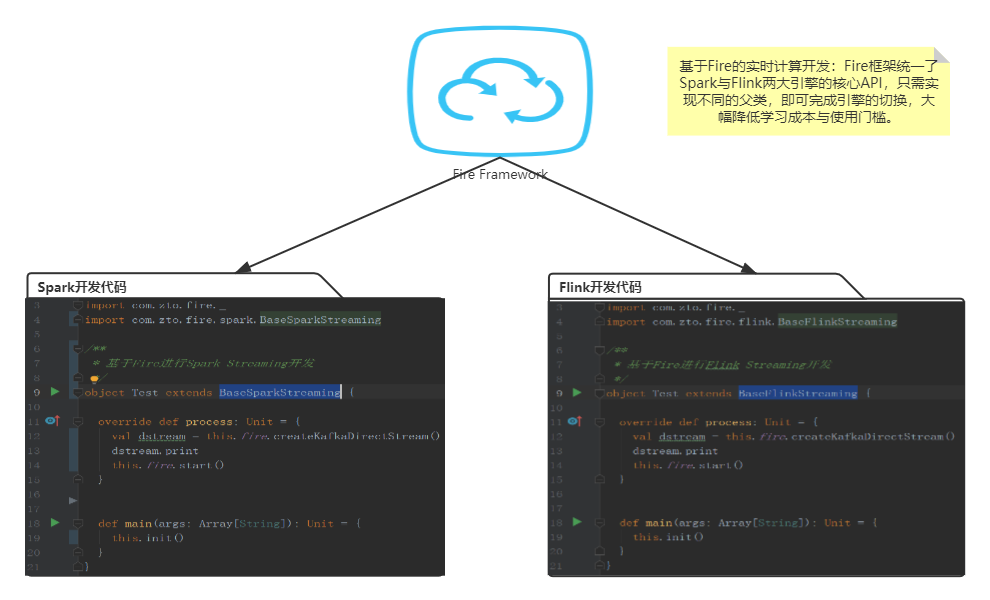
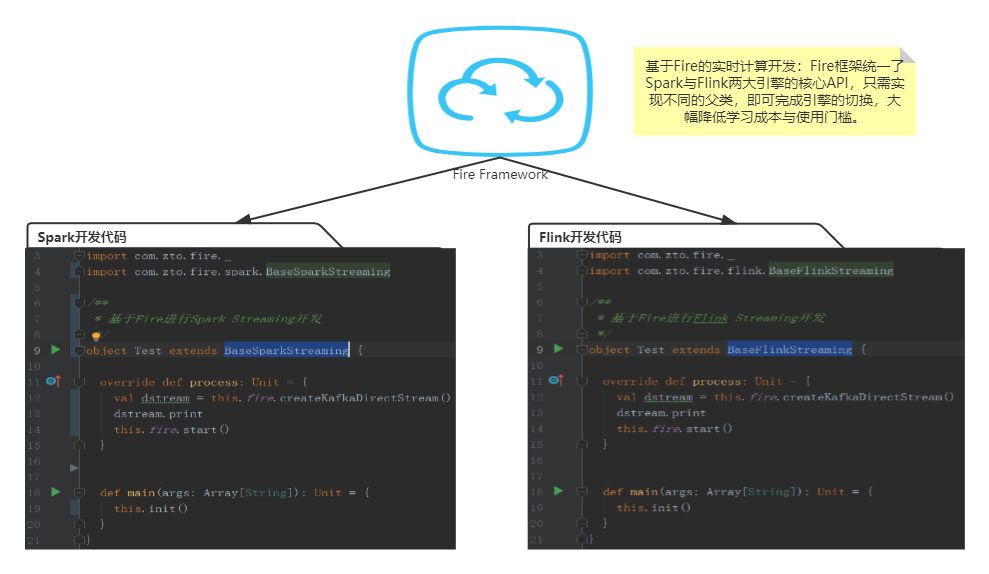
Fire文档完善

diff --git a/README.md b/README.md
@@ -8,26 +8,67 @@
 ## 赋能开发者
 		Fire框架自研发之日起就以简单高效、稳定可靠为目标。通过屏蔽技术细节、提供简洁通用的API的方式，将开发者从技术的大海中拯救出来，让开发者更专注于业务代码开发。Fire框架支持Spark与Flink两大引擎，并且覆盖离线计算与实时计算两大场景，内部提供了丰富的API，许多复杂操作仅需一行代码，大大提升了生产力。
 
-	接下来以HBase、JDBC为例进行简单介绍：
+	接下来以HBase、JDBC、Kafka为例进行简单介绍（connector连接信息均在任务同名的配置文件中）：
 
 ### HBase 操作：
 
-`// 以多版本方式get，并将结果集封装到rdd中返回
-  val studentRDD = this.fire.hbaseGetRDD(this.tableName1, classOf[Student], getRDD)
-  // get到的结果以dataframe形式返回
-  val studentDF = this.fire.hbaseGetDF(this.tableName1, classOf[Student], getRDD)`
+```scala
+val hTableName = "t_student"
+/** HBase get API **/
+// 构建rowKeyRDD
+val rowKeyRDD: RDD[String] = this.fire.createRDD(getList, 3)
+// 方式一：通过fire变量，批量get到的结果以dataframe形式返回，也支持返回RDD[JavaBean]或Dataset类型
+val studentDF: DataFrame = this.fire.hbaseGetDF(hTableName, classOf[Student], getRDD)
+// 方式二：通过RDD[String]对象直接get
+val studentDS: Dataset[Student] = rowKeyRDD.hbaseGetDS(hTableName, classOf[Student])
+// 方式三：通过bulk api进行HBase读操作
+val studentDS: Dataset[Student] = rowKeyRdd.hbaseBulkGetDS(hTableName, classOf[Student])
+
+/** HBase insert API **/
+val studentDF: DataFrame = this.fire.createDataFrame(studentList, classOf[Student])
+// 方式一：通过fire变量，将指定DataFrame数据插入到HBase中
+this.fire.hbasePutDF(hTableName, studentDF, classOf[Student])
+// 方式二：直接在DataFrame上调用hbasePutDF方法进行HBase写操作
+studentDF.hbasePutDF(hTableName, classOf[Student])
+// 方式三：通过bulk api进行HBase写操作
+studentDF.hbaseBulkPutDF(hTableName, classOf[Student])
+
+/** 多HBase集群操作 **/
+studentDF.hbaseBulkPutDF(hTableName, classOf[Student], keyNum = 2)
+```
 
 ### JDBC 操作：
 
-`val insertSql = s"INSERT INTO spark_test(name, age, createTime, length, sex) VALUES (?, ?, ?, ?, ?)"
- // 指定部分DataFrame列名作为参数，顺序要对应sql中问号占位符的顺序，batch用于指定批次大小，默认取spark.db.jdbc.batch.size配置的值
- df.jdbcBatchUpdate(insertSql, Seq("name", "age", "createTime", "length", "sex"), batch = 100)`
-		可以看到，Fire框架中的API是以DataFrame、RDD为基础进行了高度抽象，通过引入fire隐式转换，让RDD、DataFrame等对象直接具有了某些能力，进而实现直接调用。
+```scala
+/** 关系型数据库更新API **/
+// 关系型数据库SQL语句
+val insertSql = s"INSERT INTO table_name(name, age, createTime, length, sex) VALUES (?, ?, ?, ?, ?)"
+// 将DataFrame中指定几列插入到关系型数据库中，每100条一插入
+df.jdbcBatchUpdate(insertSql, Seq("name", "age", "createTime", "length", "sex"), batch = 100)
+
+/** 关系型数据库查询API **/
+val querySql = s"select * from $tableName where id in (?, ?, ?)"
+// 将查询结果通过反射映射到DataFrame中
+val df: DataFrame = this.fire.jdbcQueryDF(querySql, Seq(1, 2, 3), classOf[Student])
+
+/** 多关系型数据库操作 **/
+val df = this.fire.jdbcQueryDF(querySql, Seq(1, 2, 3), classOf[Student], keyNum=2)
+```
+###Kafka 操作:	
+
+````scala
+// 从指定kafka集群消费，该写法支持spark与flink，kafka相关信息在类同名的配置文件中
+val dstream = this.fire.createKafkaDirectStream()
+// 通过keyNum指定多kafka集群消费
+val dstream = this.fire.createKafkaDirectStream(keyNum = 2)
+````
+
+	可以看到，Fire框架中的API是以DataFrame、RDD为基础进行了高度抽象，通过引入fire隐式转换，让RDD、DataFrame等对象直接具有了某些能力，进而实现直接调用。目前Fire框架已经覆盖了主流大数据组件的API，基本上都是一行代码搞定。同时，Fire框架让任务具有**多集群的操作能力**，仅需在各API中指定参数**keyNum**，即可同时访问不同集群的不同表。
 
 ## 赋能平台
 		Fire框架可以将**实时任务**与**实时管理平台**进行绑定，实现很多酷炫又实用的功能。比如配置管理、SQL在线调试、任务热重启、配置热更新等，甚至可以直接获取到任务的运行时数据，实现更细粒度的监控管理。
 **配置管理**
-		类似于携程的apollo，实时任务管理平台可提供任务配置的管理功能，基于Fire的实时任务在启动时会主动拉取配置信息，并覆盖任务jar包中的配置文件，避免重复打包发布，节约时间。
+		类似于携程开源的apollo，实时任务管理平台可提供任务配置的管理功能，基于Fire的实时任务在启动时会主动拉取配置信息，并覆盖任务jar包中的配置文件，避免重复打包发布，节约时间。
 **SQL在线调试**
 		基于该技术，可以在实时任务管理平台中提交SQL语句，交由指定的Spark Streaming任务执行，并将结果返回，该功能的好处是支持Spark内存临时表，便于在web端进行Spark SQL的调试，大幅节省SQL开发时间。
 
@@ -35,15 +76,15 @@
 
 		有些实时任务会有定时刷新维表的需求，Fire框架支持这样的功能，类似于Spring的@Scheduled，但Fire框架的定时任务功能更强大，甚至支持指定在driver端运行还是在executor端运行。
 
-```
+```scala
 /**
  * 声明了@Scheduled注解的方法将作为定时任务方法，会被Fire框架周期性调用
  *
- * @cron cron表达式
- * @scope 默认同时在driver端和executor端执行，如果指定了driver，则只在driver端定时执行
- * @concurrent 上一个周期定时任务未执行完成时是否允许下一个周期任务开始执行
- * @startAt 用于指定第一次开始执行的时间
- * @initialDelay 延迟多长时间开始执行第一次定时任务
+ * @param cron cron表达式
+ * @param scope 默认同时在driver端和executor端执行，如果指定了driver，则只在driver端定时执行
+ * @param concurrent 上一个周期定时任务未执行完成时是否允许下一个周期任务开始执行
+ * @param startAt 用于指定第一次开始执行的时间
+ * @param initialDelay 延迟多长时间开始执行第一次定时任务
  */
 @Scheduled(cron = "0/5 * * * * ?", scope = "driver", concurrent = false, startAt = "2021-01-21 11:30:00", initialDelay = 60000)
 def loadTable: Unit = {
@@ -59,11 +100,13 @@ def loadTable: Unit = {
 		基于Fire框架，可在运行时分析哪些任务读写了HBase，哪些任务操作了MySQL数据库。这就为HBase集群或MySQL维护提供了任务清单。
 
 ## 程序结构
+		Fire支持Spark与Flink两大热门计算引擎，对常用的初始化操作进行了大幅度的简化，让业务代码更紧凑更突出更具维护性。
+
 ###Spark开发
-```
+
+```scala
 import com.zto.fire._
 import com.zto.fire.spark.BaseSparkStreaming
-
 
 /**
  * 基于Fire进行Spark Streaming开发
@@ -90,7 +133,7 @@ object Test extends BaseSparkStreaming {
 ```
 
 ###Flink开发
-```
+```scala
 import com.zto.fire._
 import com.zto.fire.flink.BaseFlinkStreaming
 
@@ -102,10 +145,12 @@ class Test extends BaseFlinkStreaming {
   override def process: Unit = {
     val dstream = this.fire.createKafkaDirectStream()
     dstream.print
+    // 提交flink streaming任务，job名称不指定默认当前类名
     this.fire.start
   }
 
   def main(args: Array[String]): Unit = {
+    // 根据配置信息自动创建fire变量、StreamExecutionEnvironment、StreamTableEnvironment等
     this.init()
   }
 }
